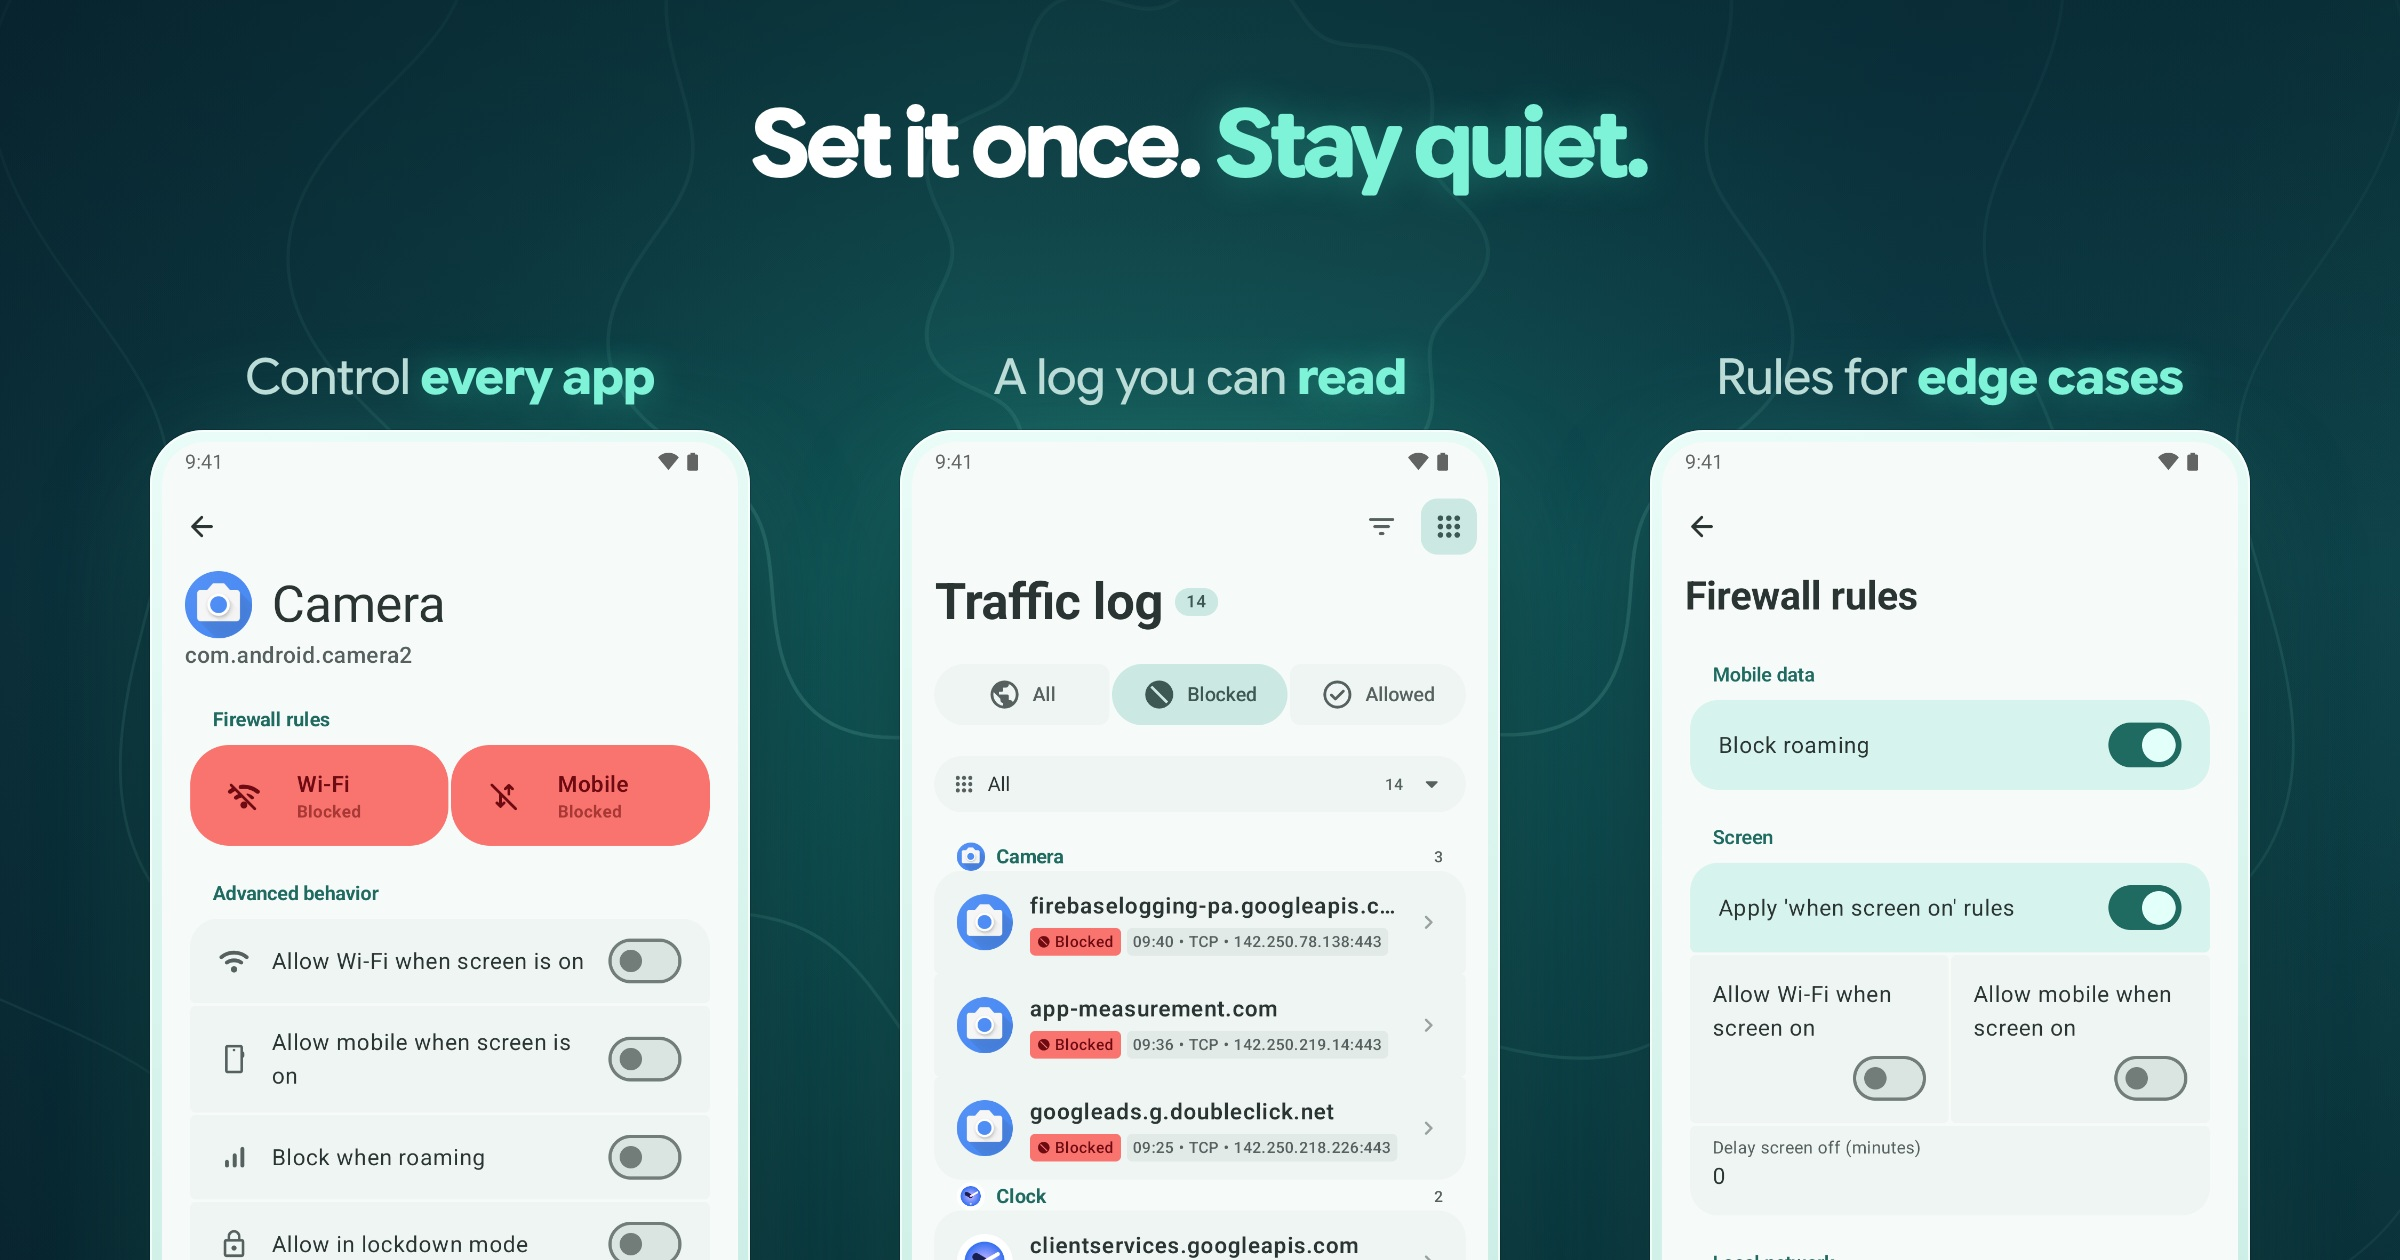
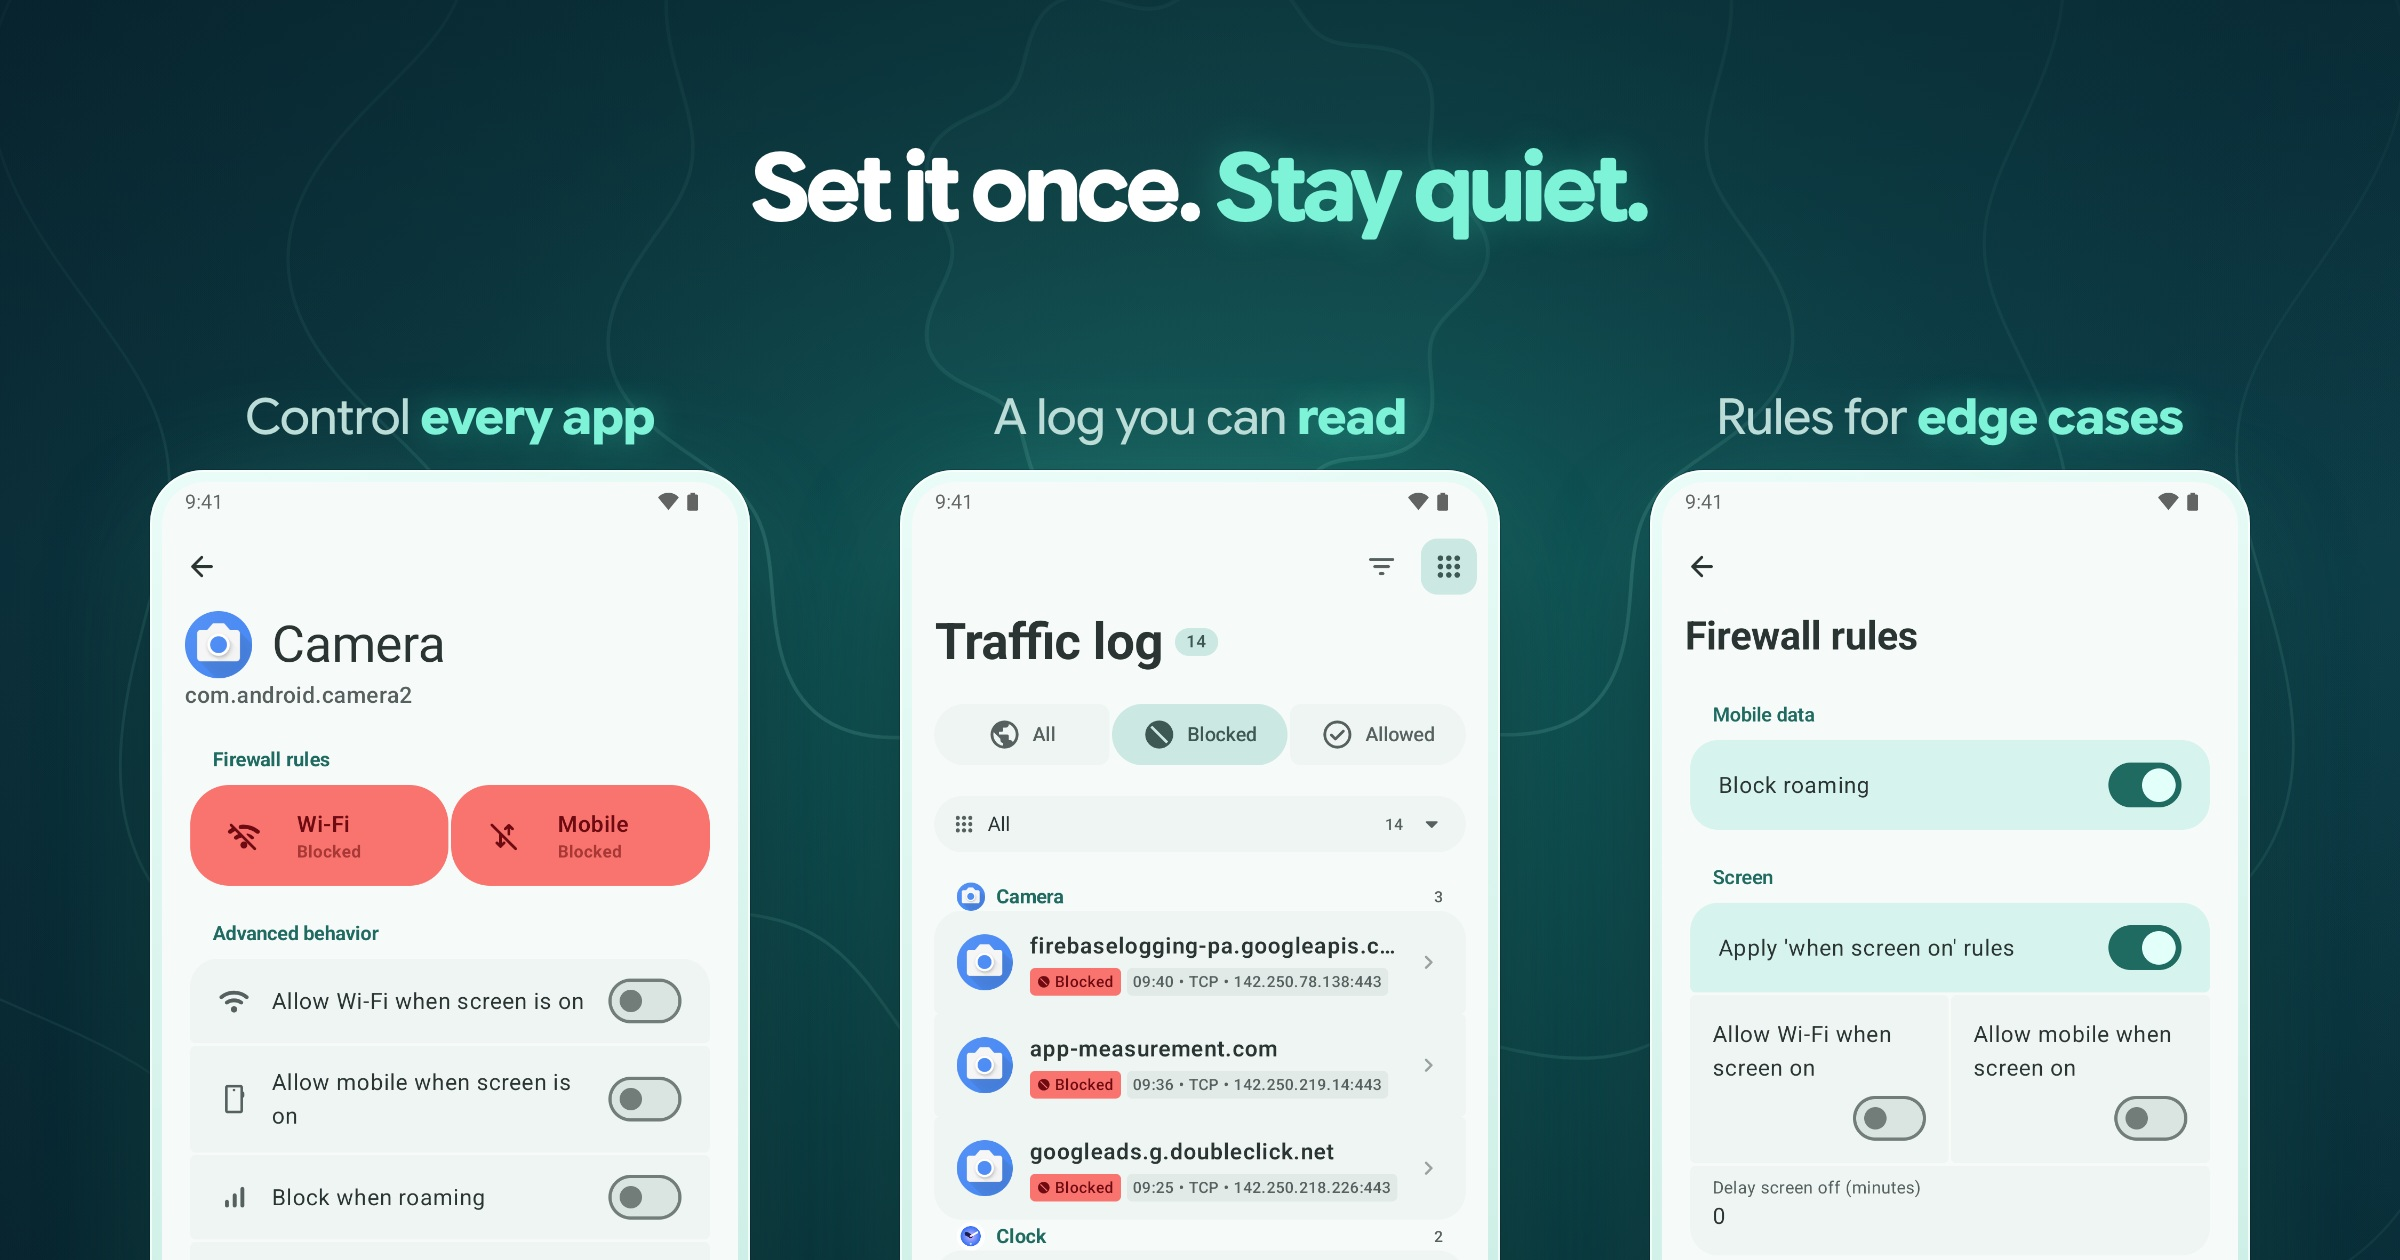
README: a tablet spread like Wordkeep's, and the trio headline sits lower
'Room for every rule' runs the landscape tablet off the right edge with the dark-mode
firewall on a phone in front; the theme lets only this README layout bleed off a side.

diff --git a/store-listing/theme.css b/store-listing/theme.css
@@ -76,11 +76,18 @@ header p{margin:28px auto 0;font-size:40px;line-height:1.28;font-weight:420;colo
 .device-label.after span{font-size:40px;font-weight:700;color:var(--mint);text-shadow:0 0 34px #3fe3bd88}
 
 /* Trio: one headline, then three equal phones in an even row, each under a short caption that lights one word. */
-.readme .trio header{left:0;right:0;top:96px}
+.readme .trio header{left:0;right:0;top:140px}
 .readme .trio h1{font-size:96px}
-.readme .trio .device{width:600px;top:430px}
+.readme .trio .device{width:600px;top:470px}
 .readme .trio .one{left:150px}
 .readme .trio .two{left:900px}
 .readme .trio .three{left:1650px}
 .readme .trio .device-label{transform:translateY(calc(-100% - 28px));text-align:center;font-size:50px;line-height:1;font-weight:460;letter-spacing:-.01em;color:var(--muted)}
 .readme .trio .device-label em{font-style:normal;font-weight:760;color:var(--mint);text-shadow:0 0 34px #3fe3bd66}
+
+/* Spread: the headline on the left, a landscape tablet running off the right edge, a dark phone stepping in front. */
+.readme .spread header{left:150px;right:auto;top:0;bottom:0;width:720px;text-align:left;display:flex;flex-direction:column;justify-content:center}
+.readme .spread h1{font-size:112px}
+.readme .spread header p{margin:28px 0 0;font-size:40px;max-width:640px;text-align:left}
+.readme .spread .tablet{--bezel:18px;--radius:48px;left:1000px;top:150px;width:1620px}
+.readme .spread .phone{--bezel:12px;--radius:60px;left:860px;top:500px;width:420px;z-index:4}

diff --git a/store-listing/theme.js b/store-listing/theme.js
@@ -58,7 +58,8 @@ export default {
     }
   },
 
-  // Screens may run off the bottom (or hang from the top on the stacked card), never off the sides,
+  // Screens may run off the bottom (or hang from the top on the stacked card), never off the sides (except the
+  // README spread),
   // and most of each screen stays in view.
   decorate({W, H, slide, devices}) {
     if (slide.layout === 'compare') {
@@ -67,8 +68,10 @@ export default {
       return;
     }
     const stacked = /stack/.test(slide.layout || '');
+    // The README spread runs its tablet off the right edge on purpose.
+    const bleeds = slide.layout === 'spread';
     for (const {box, spec} of devices) {
-      if (box.left < 0 || box.left + box.width > W + 1) throw new Error(`Screen leaves the side of the card: ${spec.raw}`);
+      if (!bleeds && (box.left < 0 || box.left + box.width > W + 1)) throw new Error(`Screen leaves the side of the card: ${spec.raw}`);
       if (stacked) continue;
       if (box.top < 0) throw new Error(`Screen leaves the top of the card: ${spec.raw}`);
       if ((H - box.top) / box.height < .62) throw new Error(`Too little of ${spec.raw} is visible`);

diff --git a/README.md b/README.md
@@ -28,6 +28,12 @@
 - **A log you can read.** Every connection shows the app, the server and whether it got through. Filter to the blocked ones, grouped by app.
 - **Rules for the edge cases.** Allow an app only while the screen is on, block roaming, lock everything down, and choose what new apps get.
 
+## On a bigger screen
+
+<p align="center">
+  <img src="store-listing/en-US/readme/big-screen.jpg" width="100%" alt="Room for every rule: QuietGuard on a landscape tablet with the app list beside Camera's rules, and the firewall in dark mode on a phone in front">
+</p>
+
 ## From NetGuard to QuietGuard
 
 The same phone and the same apps, before and after. Every screen is redrawn with Material 3.
